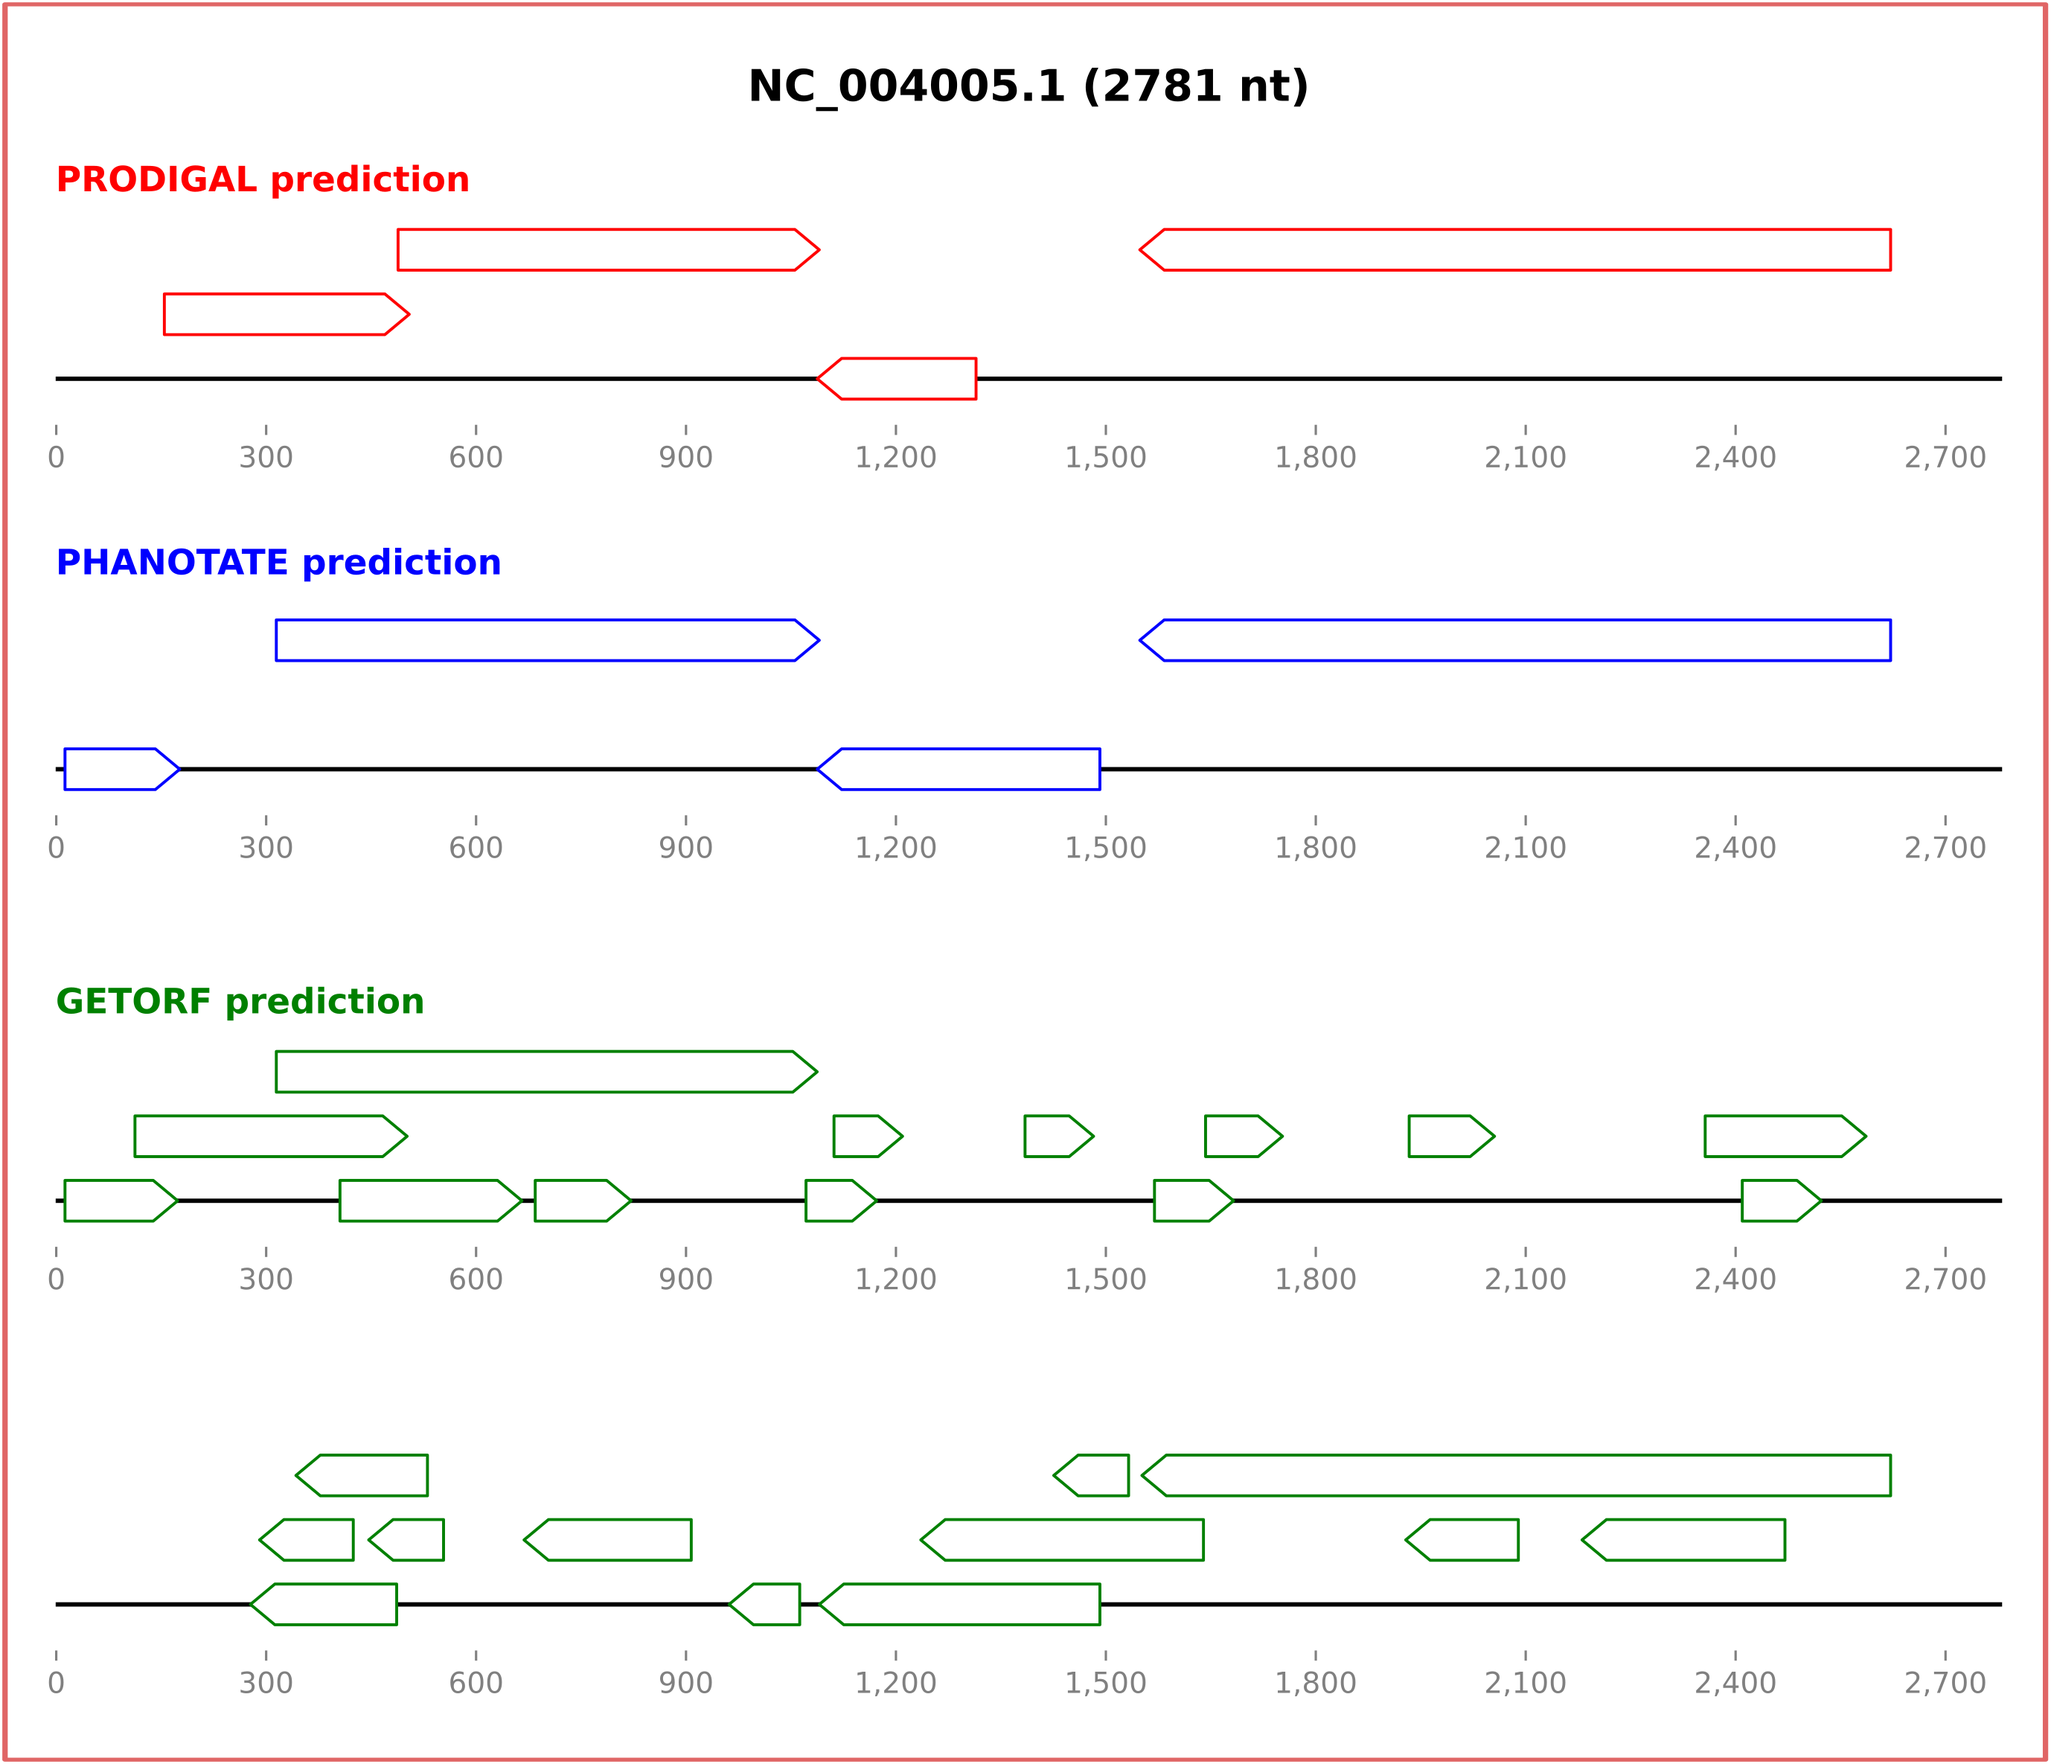
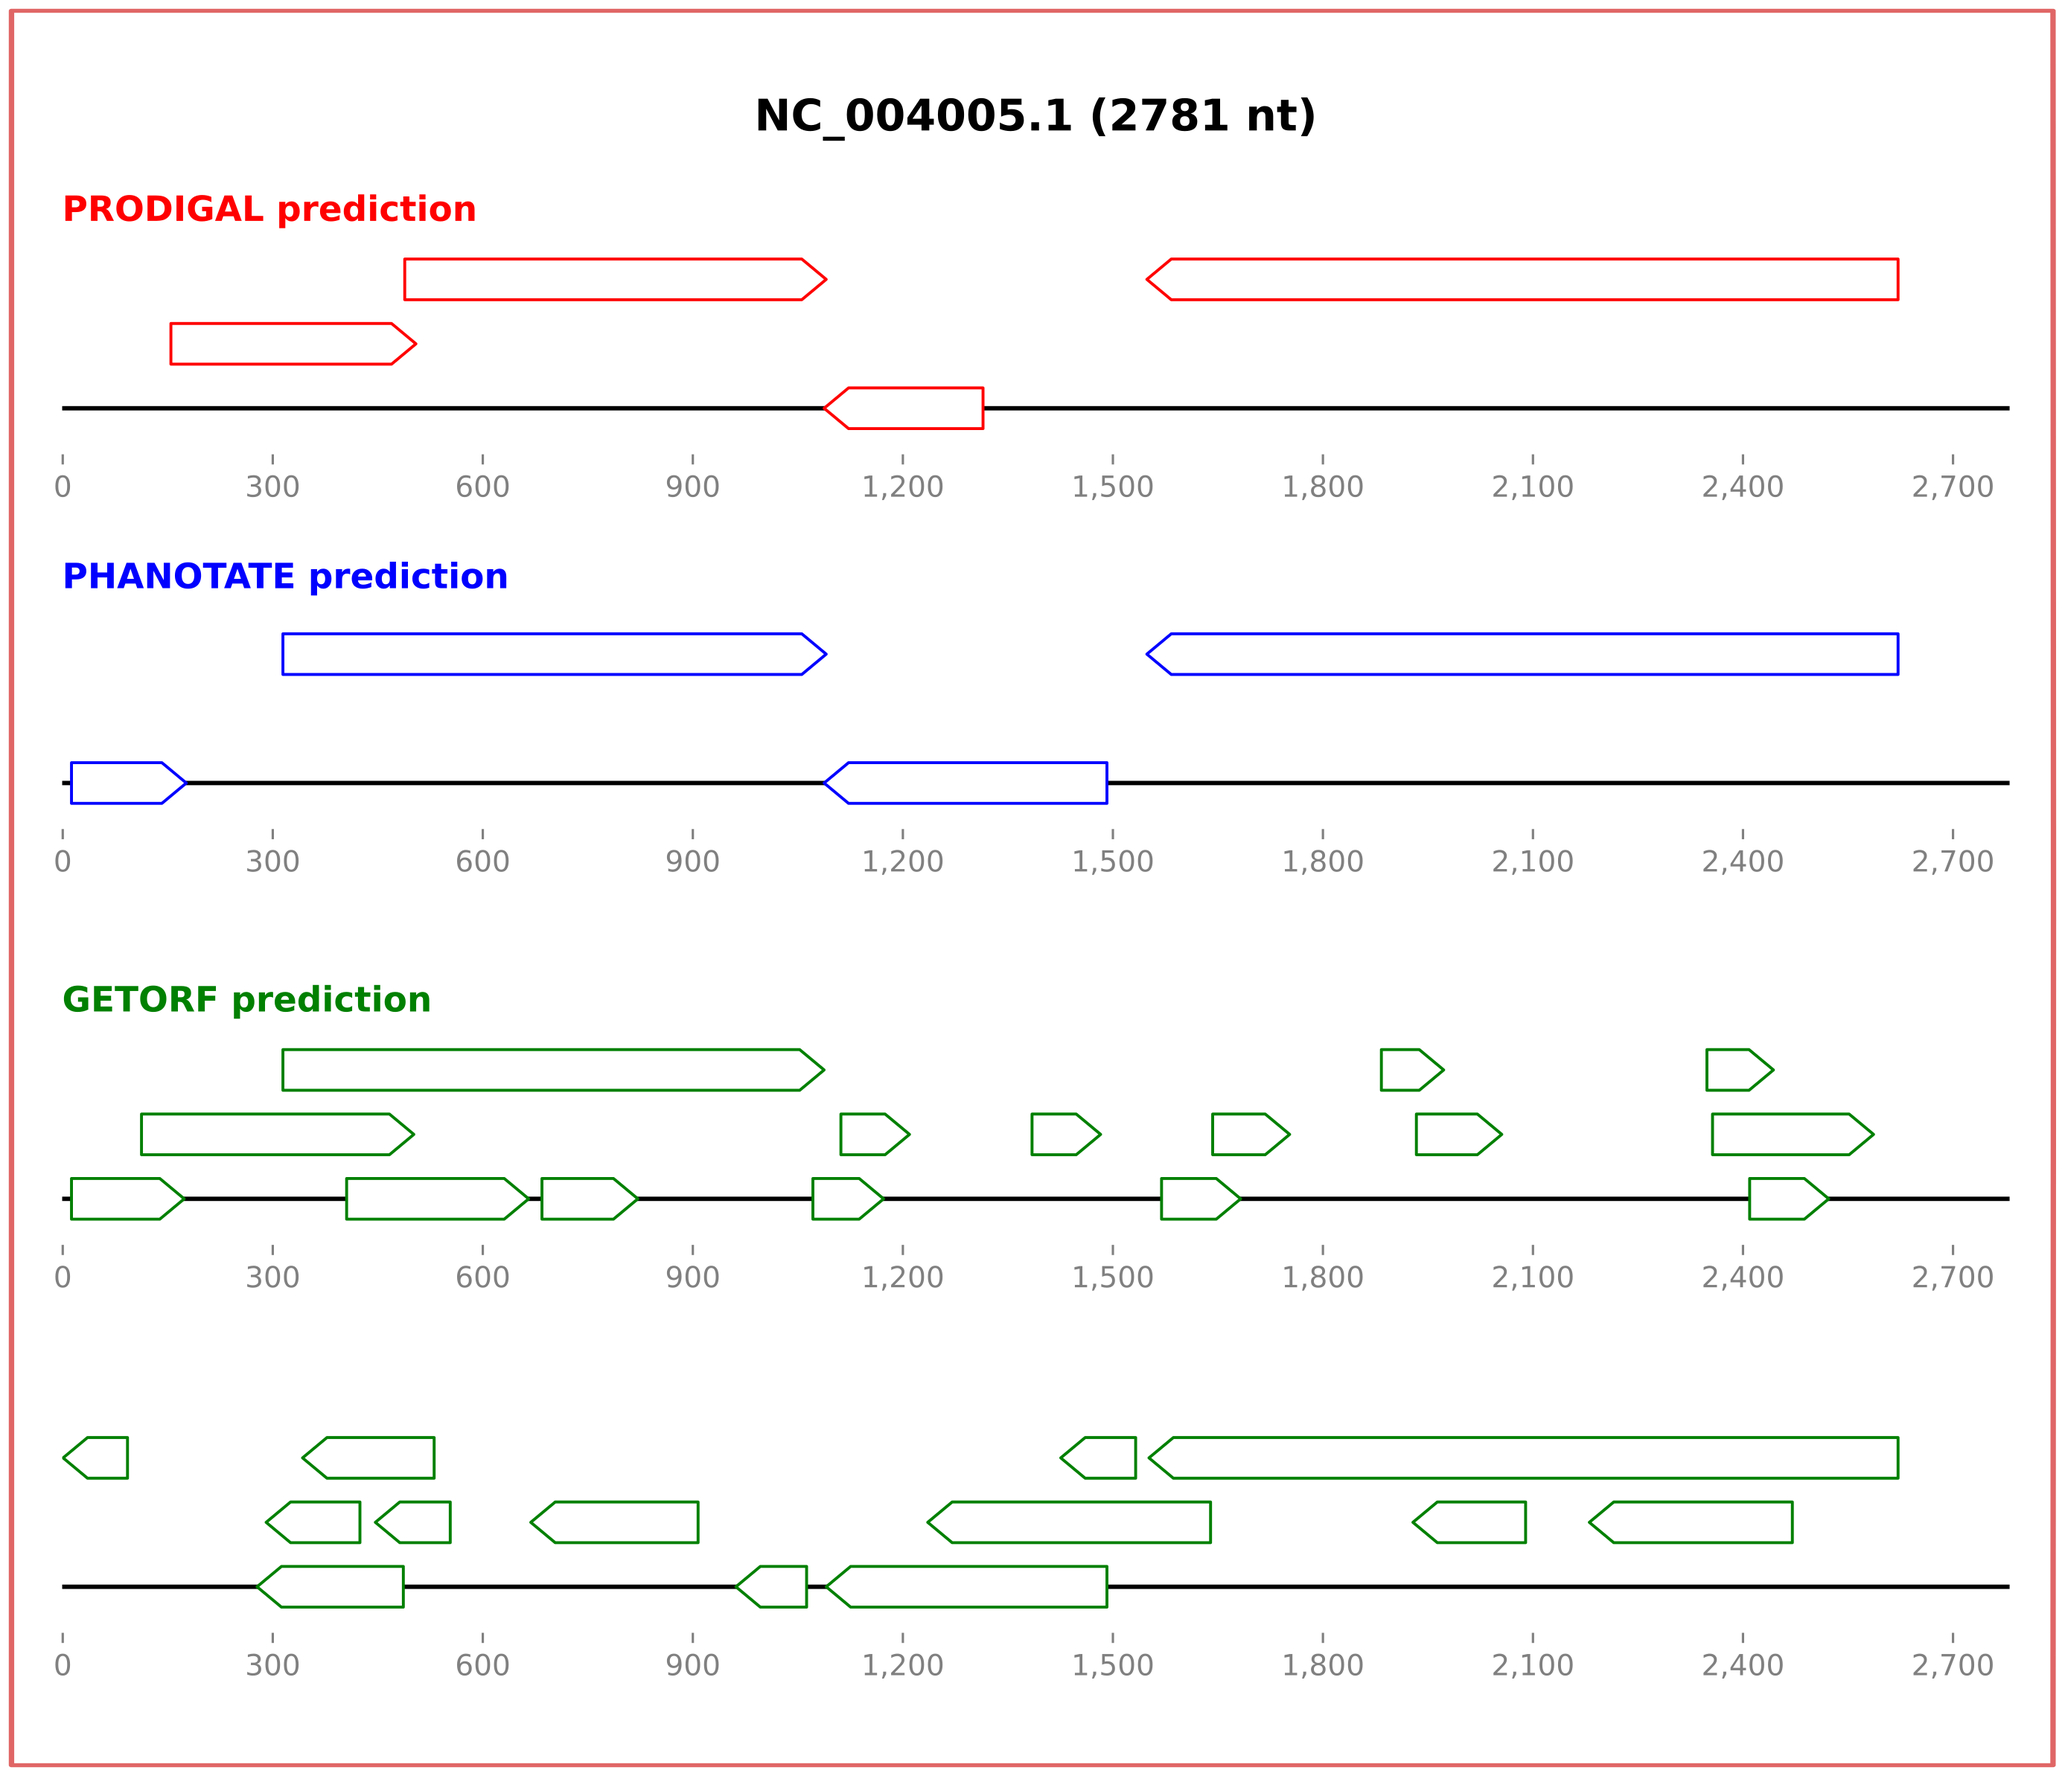
Protein prediction only

diff --git a/README.md b/README.md
@@ -165,7 +165,7 @@ Positional arguments:<br>
 For example, if we only wanted the protein and ORF predictions of TYLCV: 
 
 ```diff
-docker run -v $HOME/test:/data codingdiv codingDiv.sh --getorf_only tylcv.fna 100 1 N
+docker run -v $HOME/test:/data codingdiv codingDiv.sh --getorf_only tylcv.fna 90 1 N
 ```
 
 All output files will be written in the current directory, and the SVG file named `tylcv_predictions.svg` should look like this:
